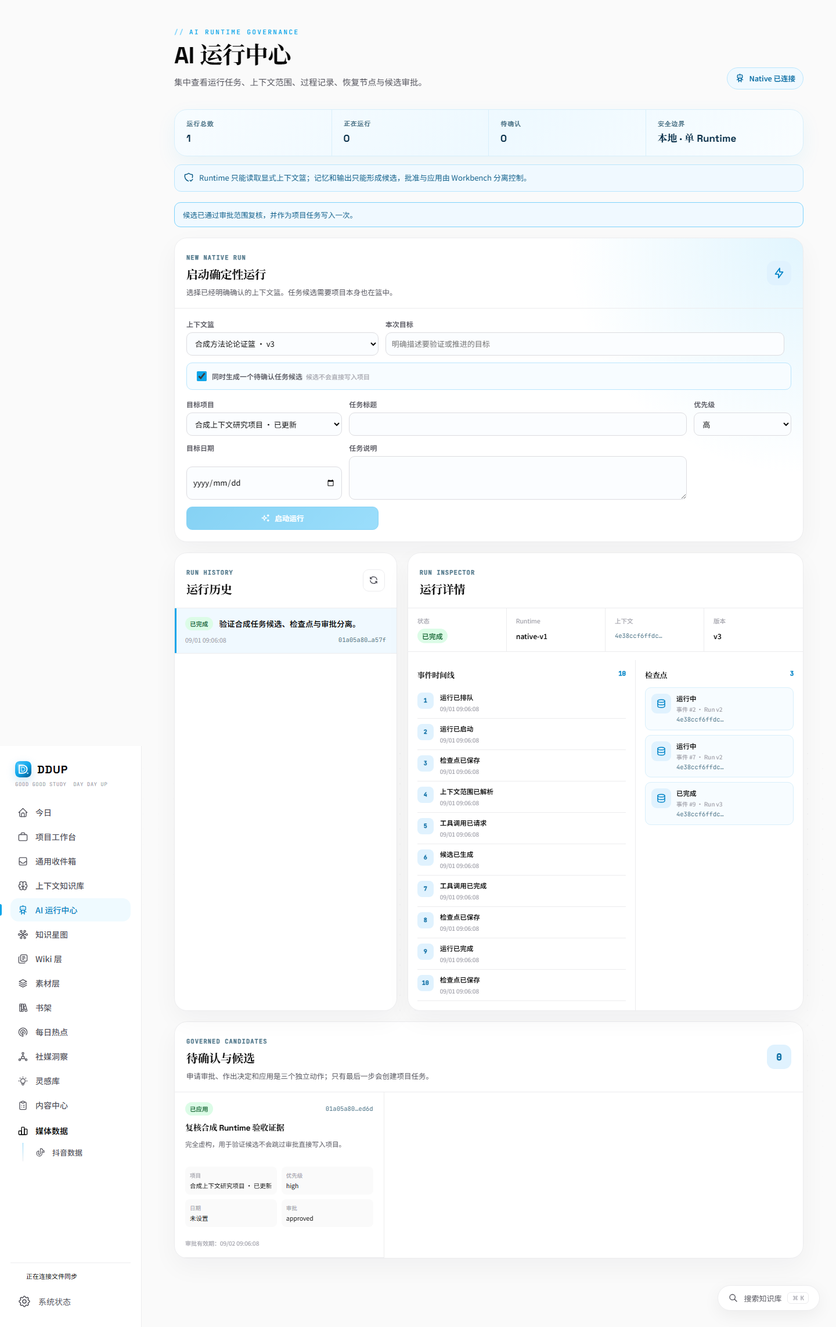
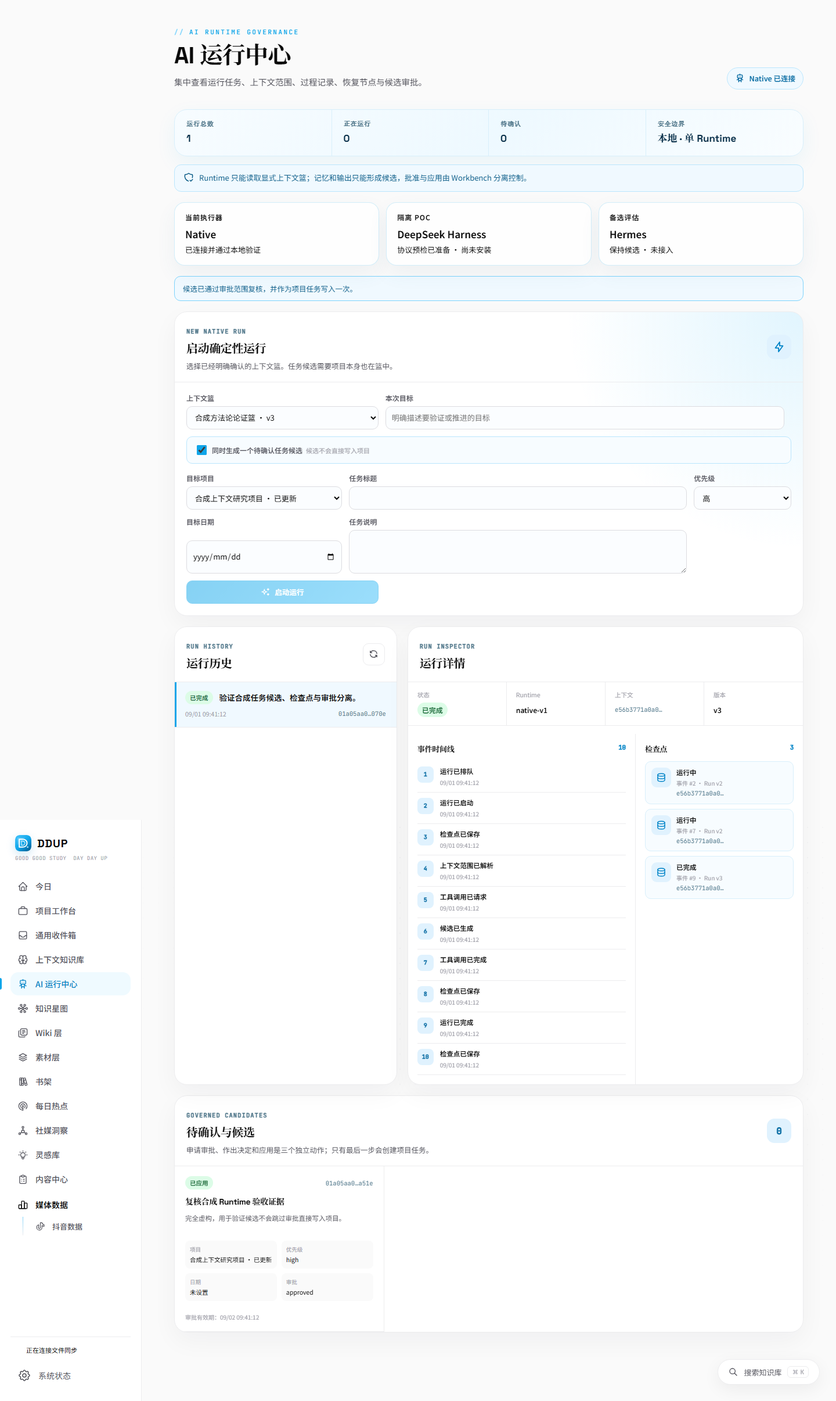
feat: prepare isolated harness protocol poc

diff --git a/person_dashboard-main/Workbench/src/styles.css b/person_dashboard-main/Workbench/src/styles.css
@@ -1166,6 +1166,13 @@
 .runtime-summary strong { overflow: hidden; color: #082f49; font: 700 17px/1.35 var(--font-display); text-overflow: ellipsis; white-space: nowrap; }
 .runtime-boundary { display: flex; align-items: flex-start; gap: 9px; margin: 0 0 18px; padding: 12px 15px; border: 1px solid #bae6fd; border-radius: 12px; background: #f0f9ff; color: #075985; font-size: 13px; line-height: 1.55; }
 .runtime-boundary svg { width: 18px; height: 18px; flex: 0 0 auto; }
+.runtime-readiness { display: grid; grid-template-columns: repeat(3, minmax(0, 1fr)); gap: 12px; margin: 0 0 18px; }
+.runtime-readiness article { min-width: 0; padding: 16px 18px; border: 1px solid rgba(31, 164, 226, .2); border-radius: 18px; background: rgba(255, 255, 255, .82); box-shadow: 0 14px 34px rgba(65, 113, 139, .07); }
+.runtime-readiness span,
+.runtime-readiness small { display: block; color: var(--muted); }
+.runtime-readiness span { margin-bottom: 8px; font-size: 12px; font-weight: 700; letter-spacing: .08em; text-transform: uppercase; }
+.runtime-readiness strong { display: block; margin-bottom: 5px; font-size: 17px; }
+.runtime-readiness small { font-size: 13px; line-height: 1.55; }
 .runtime-notice { margin: 0 0 18px; padding: 11px 14px; border: 1px solid #7dd3fc; border-radius: 11px; background: #f0f9ff; color: #075985; font-size: 12.5px; line-height: 1.55; }
 .runtime-launcher,
 .runtime-run-list,
@@ -1292,6 +1299,7 @@
 
 @media (max-width: 760px) {
   .runtime-summary { grid-template-columns: repeat(2, minmax(0, 1fr)); }
+  .runtime-readiness { grid-template-columns: 1fr; }
   .runtime-summary > div:nth-child(2) { border-right: 0; }
   .runtime-summary > div:nth-child(-n+2) { border-bottom: 1px solid #d8effb; }
   .runtime-launcher > header,

diff --git a/person_dashboard-main/Workbench/src/pages/RuntimePage.jsx b/person_dashboard-main/Workbench/src/pages/RuntimePage.jsx
@@ -225,6 +225,8 @@ export function RuntimePage() {
     [includedProjectIds, workspace.projects],
   );
   const nativeRuntime = workspace.runtimes.find((runtime) => runtime.runtime_key === "native-v1");
+  const harnessRuntime = workspace.runtimes.find((runtime) => runtime.runtime_key === "deepseek-harness-poc");
+  const hermesRuntime = workspace.runtimes.find((runtime) => runtime.runtime_key === "hermes-candidate");
   const pendingCount = workspace.candidates.filter((candidate) => ["pending", "approved"].includes(candidate.status)).length;
 
   const submitRun = async (event) => {
@@ -325,6 +327,11 @@ export function RuntimePage() {
       </section>
 
       <p className="runtime-boundary"><IconShieldCheck />Runtime 只能读取显式上下文篮；记忆和输出只能形成候选，批准与应用由 Workbench 分离控制。</p>
+      <section aria-label="运行时准备状态" className="runtime-readiness">
+        <article><span>当前执行器</span><strong>Native</strong><small>{nativeRuntime?.connected ? "已连接并通过本地验证" : "当前不可用"}</small></article>
+        <article><span>隔离 POC</span><strong>DeepSeek Harness</strong><small>{harnessRuntime?.readiness === "protocol_preflight_ready" ? "协议预检已准备 · 尚未安装" : "尚未连接"}</small></article>
+        <article><span>备选评估</span><strong>Hermes</strong><small>{hermesRuntime?.connected ? "连接状态可用" : "保持候选 · 未接入"}</small></article>
+      </section>
       {notice ? <p aria-live="polite" className="runtime-notice">{notice}</p> : null}
 
       {workspace.status === "error" ? (

diff --git a/product/Harness隔离POC实施授权_待确认.md b/product/Harness隔离POC实施授权_待确认.md
@@ -1,0 +1,91 @@
+# G6a：DeepSeek Harness 隔离 POC 实施授权（待确认）
+
+> 文档状态：待确认  
+> 生成日期：2026-09-01  
+> 确认门：G6a  
+> 当前事实：Workbench 已完成 Harness 协议预检代码与合成测试；官方运行时尚未下载、安装或连接
+
+## 0. 需要确认的决定
+
+| 编号 | 决定 | 推荐默认项 | 替代方案 | 不确认的影响 |
+|---|---|---|---|---|
+| G6a-1 | 是否进入官方运行时 POC | **Go，但仅限隔离、只读、synthetic-only POC** | Stop；继续使用 Native | Harness 保持“协议预检已准备、尚未安装” |
+| G6a-2 | 固定版本 | **`@deepseek-ai/dsh@0.1.1-rc.2` 与 `@deepseek-ai/dsh-sdk-client@0.1.1-rc.2`，禁止浮动标签** | 跟随 `next/latest` | 浮动版本无法形成可复现证据 |
+| G6a-3 | 安装边界 | **独立 `experiments/harness-poc/`，单独 lock，不进入 Workbench 生产依赖** | 加入 Workbench 根依赖 | 会扩大主应用供应链和构建影响 |
+| G6a-4 | 下载与磁盘上限 | **npm 下载/缓存与隔离安装合计上限 1 GiB，预计超限立即 Stop** | 不设上限 | 可能无界扩张大型插件闭包 |
+| G6a-5 | 生命周期脚本 | **首轮 `ignore-scripts`，先审计 tarball、依赖、许可证和脚本；未通过不执行脚本** | 正常安装 | 第三方脚本会在审查前获得本机执行机会 |
+| G6a-6 | 模型与凭据 | **首轮只做官方进程启动、握手、事件与退出测试；不配置真实 API key，不产生付费请求** | 直接接真实模型 | 会把协议验证与凭据/费用风险混在一起 |
+| G6a-7 | 数据范围 | **仅使用独立临时目录和明确 synthetic fixture；不读取 Workbench SQLite、Vault 或真实项目数据** | 直接接个人上下文 | POC 未通过前会扩大隐私与权限风险 |
+| G6a-8 | 能力状态 | **通过完整 G6a 验收前保持 `poc_not_connected`，不能创建正式 Run** | 安装后即显示可用 | 会把“装上了”误报为“安全可用” |
+
+建议确认口径：`G6a 全部按推荐项确认。`
+
+## 1. 为什么现在需要单独确认
+
+此前 G1–G5b 只批准了 Workbench 自身 Runtime、检索和审批能力。Harness 属于新的第三方执行面，完整 CLI 当前具有较大的插件依赖闭包，并包含文件、Shell、网络、MCP、子 Agent、Workflow 和动态 Cordis 工具等能力。即使 POC 只使用最小 Profile，下载和安装本身也会改变本机供应链状态，因此不能从“继续开发”推导为已授权安装。
+
+## 2. 2026-09-01 官方状态复核
+
+官方仍将 Harness 标记为 Developer Preview，并明确提示会有兼容性破坏。当前 npm `@deepseek-ai/dsh` 显示版本 `0.1.1-rc.2`；本地只读 `npm view` 结果显示主包本体解包大小约 117 KiB、MIT 许可证，但直接依赖包含约 60 个 Harness/Cordis 与工具包，不能用主包本体大小代表完整安装量。
+
+当前官方 SDK 协议事实：
+
+- 换行分隔 JSON-RPC 2.0，通过 stdio 驱动独立进程；
+- 握手稳定名称为 `deepseek-harness-sdk-runtime`，线协议版本为 `0.0.1`；
+- `session/prompt` 只确认消息进入队列，不直接返回最终回答；
+- 服务端通过 `session.event` 与 `session.status` 通知过程；
+- 当前没有协议版本协商、单会话关闭/取消方法，也没有服务端审批请求能力；
+- 因而 POC 不能把取消、审批、Resume 或 ToolCall 误标为已具备。
+
+来源：
+
+- [DeepSeek Harness 官方 Developer Preview](https://deepseek.com/harness/en/)
+- [官方 SDK JSON-RPC Server 说明](https://github.com/deepseek-ai/deepseek-harness/blob/master/packages/sdk/server/README.md)
+- [官方 SDK Protocol 说明](https://github.com/deepseek-ai/deepseek-harness/blob/master/packages/sdk/protocol/README.md)
+- [npm：@deepseek-ai/dsh](https://www.npmjs.com/package/@deepseek-ai/dsh)
+
+## 3. 已完成的零依赖预检
+
+无需安装第三方包的准备工作已经完成：
+
+1. Registry 保持 Harness `connected=false`，但公开 `stdio_jsonrpc`、只读 POC Profile 和协议预检状态；
+2. 握手只接受官方服务名和线协议 `0.0.1`，版本漂移时 fail closed；
+3. 单帧限制 64 KiB，只接受 `session.event/session.status` 通知；
+4. 会话 ID、原始消息、工具参数和路径不进入 Workbench 事件，只保存 SHA-256 摘要、事件类型和帧大小；
+5. JSON 破损、超限帧、服务端请求、未知状态和子 Agent 通知均以 `RUNTIME_PROTOCOL_ERROR` 拒绝；
+6. UI 显示“协议预检已准备 · 尚未安装”，Native 仍是唯一可运行主 Runtime；
+7. 专项测试 16/16 通过，其中 Harness 预检 4/4。
+
+这只是 Adapter 前置边界，不是实际 Harness 集成证据。
+
+## 4. 确认后的实施步骤
+
+1. 建立独立实验目录、忽略规则、单独 manifest/lock 和 1 GiB 预算检查；
+2. 只下载固定 tarball 与依赖元数据，记录 integrity、许可证、脚本和依赖清单；
+3. 先以禁用生命周期脚本方式安装，执行生产依赖安全审计；
+4. 使用无敏感信息的临时 home/workspace 启动官方 SDK Profile；
+5. 验证 stdout 纯 JSON-RPC、stderr 诊断分离、握手、通知、EOF/进程退出和超限帧；
+6. 增加崩溃、乱序、重复、未知事件、越界路径、环境变量泄漏和进程残留测试；
+7. 若协议 POC 通过，再单独形成“模型与只读工具闭环”授权，不自动接入真实模型、真实资料或付费服务；
+8. 只有 G6a 最终报告给出 Go，才允许把 Harness 从 `poc_not_connected` 改为受限 POC 可运行状态。
+
+## 5. Stop 条件
+
+出现任一情况即停止，不修改 Workbench 主 Runtime：
+
+- 固定版本或 integrity 无法复现；
+- 下载/安装预计超过 1 GiB；
+- 必须执行未审查脚本或修改 Harness 核心才能完成握手；
+- stdout 混入日志导致协议帧不可可靠分离；
+- Windows 环境无法阻止读取实验目录之外的文件或无法清理子进程；
+- 事件无法在不保存原始敏感正文的前提下归一化；
+- 当前缺失的取消/审批能力导致进程级补偿仍无法满足安全终态；
+- 引入的维护成本明显高于 Native 与后续自研 Adapter。
+
+## 6. 确认后才会发生的外部变化
+
+- 从 npm 下载固定的第三方预发布包；
+- 在仓库忽略的隔离目录生成依赖和缓存；
+- 启动仅访问 synthetic 临时目录的本地子进程；
+- 不会写入 Workbench 业务数据库，不会访问真实知识库，不会配置真实模型凭据，不会监听局域网或公网。
+

diff --git a/README.md b/README.md
@@ -2,7 +2,7 @@
 
 DDUP 是一套本地优先、来源可追溯、权限感知的个人 AI 工作台。系统以“项目”为执行骨架，以“个人上下文知识库”为统一认知层，面向科研、AI 应用探索、科技前沿跟踪、学习提升、计划复盘和个人第二大脑等长期场景。
 
-> 当前阶段：G1–G5b 已确认。核心项目闭环、受控 Markdown、权限优先全文检索、显式上下文篮、Native 确定性 Run 生命周期、Task Candidate Tool/Approval 首版，以及正式运行中心、SSE、Checkpoint 与安全重试谱系已实现；受保护混合检索仍为默认关闭的实验路径。sidecar 历史超时已通过临时候选向量缓存与有界背压完成短样本修复，但扩展边界 Top-1 仍仅 70%。BGE-M3 仍是仓库外、synthetic-only、CPU 实验 sidecar，并因质量 Stop 保持默认关闭。生成式回答、通用 Tool/Approval、Runtime 私有 resume、DeepSeek Harness 与 Hermes 尚未接入，不应视为现有生产能力。
+> 当前阶段：G1–G5b 已确认。核心项目闭环、受控 Markdown、权限优先全文检索、显式上下文篮、Native 确定性 Run 生命周期、Task Candidate Tool/Approval 首版，以及正式运行中心、SSE、Checkpoint 与安全重试谱系已实现；受保护混合检索仍为默认关闭的实验路径。DeepSeek Harness 已完成零依赖协议预检，但官方运行时下载/安装仍等待 G6a；Hermes 仍为未连接候选。生成式回答、通用 Tool/Approval 与 Runtime 私有 resume 尚未接入，不应视为现有生产能力。
 
 ## 一、产品目标
 
@@ -80,7 +80,7 @@ flowchart TB
 | 引用问答 | 固定来源版本、逐条 Citation、无依据拒答 | 设计中；生成式回答继续关闭，需后续安全门 |
 | 媒体数据 | 可扩展渠道父级；抖音数据作为首个子项和合成演示面板 | 导航与抖音子页已实现 |
 | 科研 / AI Lab / 前沿 / 学习 | 产品设计、原型页面与项目模板路线 | 原型/设计方案 |
-| DeepSeek Harness | 只读隔离 Runtime POC 候选；Registry 中可见但不可运行 | `poc_not_connected` |
+| DeepSeek Harness | stdio JSON-RPC 握手、帧门和脱敏摘要预检已实现；官方运行时尚未安装，Registry 中不可运行 | `protocol_preflight_ready / poc_not_connected` |
 | Hermes | 可选 Runtime / 消息网关候选；Registry 中可见但不可运行 | `candidate_not_connected` |
 | 飞书 / 移动连接器 | 高频捕获、任务、讨论、提醒和复盘 | 后续计划 |
 
@@ -134,7 +134,7 @@ npm run build
 npm run privacy:scan
 ```
 
-当前验证快照：Node 24.19；2026-09-01 完整回归与生产构建 226/226 通过，隐私扫描通过。Native Runtime 生命周期专项 7/7、Task Candidate/Approval 专项 3/3、运行中心静态契约专项 2/2，覆盖正常、失败、策略拒绝、跨空间、重复请求、取消、审批过期、防替换、真实重启收敛、检查点、SSE 断点续传和安全重试谱系；运行中心桌面端/390px Playwright Chromium E2E 1/1 通过并保存合成截图。受保护混合检索另有仓库外 BGE-M3 回环冒烟、独立合成盲测、边界质量失败和 sidecar D1–D3 短样本修复证据。构建存在主包大于 500 kB 的非阻塞提示。
+当前验证快照：Node 24.19；2026-09-01 完整回归与生产构建 230/230 通过，隐私扫描通过。Native Runtime 生命周期专项 7/7、Task Candidate/Approval 专项 3/3、运行中心静态契约专项 2/2、Harness 协议预检专项 4/4，覆盖正常、失败、策略拒绝、跨空间、重复请求、取消、审批过期、防替换、真实重启收敛、检查点、SSE 断点续传、安全重试谱系，以及 Harness 握手、帧上限、脱敏摘要与未知事件失败关闭；运行中心桌面端/390px Playwright Chromium E2E 1/1 通过并保存合成截图。受保护混合检索另有仓库外 BGE-M3 回环冒烟、独立合成盲测、边界质量失败和 sidecar D1–D3 短样本修复证据。构建存在主包大于 500 kB 的非阻塞提示。
 
 ## 六、仓库结构
 
@@ -175,6 +175,7 @@ DDUP/
 ### Runtime 与专项评估
 
 - [DeepSeek Harness 与 Hermes 融合方案](product/Agent运行时融合方案_DeepSeek_Harness与Hermes.md)
+- [DeepSeek Harness 隔离 POC 实施授权（G6a 待确认）](product/Harness隔离POC实施授权_待确认.md)
 - [DeepSeek Harness 项目适用性评估](research/DeepSeek_Harness_项目适用性评估.md)
 - [Hermes Agent 项目适用性评估](research/Hermes_Agent_项目适用性评估.md)
 - [个人 AI 助手与知识库调研报告](research/个人AI助手与知识库调研报告.md)
@@ -200,7 +201,7 @@ DDUP/
 1. 受保护 Hybrid SearchProvider 已按 G5b 落地但默认关闭；正式检索继续以 FTS 为稳定基线；
 2. sidecar 重复 passage 编码与无界等待已完成短样本修复；下一步聚焦长文相邻主题错排、英文长尾漏召回和长时稳定，不下载 reranker；
 3. 显式 ContextPackage 已作为独立范围层落地；下一步只能在质量、提示注入、泄漏、回退、背压和资源门全部通过后，才将其连接生成式引用问答；
-4. Native Runtime 生命周期、Task Candidate Tool/Approval、运行历史/待确认正式 UI、SSE、Checkpoint 与安全重试已落地；下一步进入 Harness 只读隔离 POC 的 G6a 证据准备，Harness/Hermes 仍保持未连接 POC/候选。
+4. Native Runtime 生命周期、Task Candidate Tool/Approval、运行中心、SSE、Checkpoint 与安全重试已落地；Harness 零依赖协议预检已完成，下一步需通过 G6a 后才可下载固定官方运行时；Hermes 保持未连接候选。
 
 ## 九、隐私与发布边界
 

diff --git a/product/个人上下文智能工作台_实施任务计划.md b/product/个人上下文智能工作台_实施任务计划.md
@@ -322,11 +322,11 @@
 | 9 | S2-03 权限安全与审计设计 | 已确认 | G3 于 2026-08-24 通过，C1–C14 采用推荐方案 |
 | 10 | S2-07 SQLite 可靠性 Spike | 部分完成 | Windows/Node 24.19 全规模通过；Linux/CI 在工程骨架阶段补齐 |
 | 11 | S2-08 Fastify/Playwright 依赖审查 | 已完成 | 精确版本已安装；Chromium shell 已用于本地 E2E，不进入产品包 |
-| 12 | A1/A12 Node 与 CI 基线 | 已完成 | Node 24 预检；2026-09-01 Windows 完整测试 226/226；Windows/Linux CI 文件已建立，远端执行待触发 |
+| 12 | A1/A12 Node 与 CI 基线 | 已完成 | Node 24 预检；2026-09-01 Windows 完整测试 230/230；Windows/Linux CI 文件已建立，远端执行待触发 |
 | 13 | S2-04 API 与事件契约 | 已完成 | 正式设计文档、统一 envelope/错误/UUIDv7 和基础 OpenAPI 已建立 |
 | 14 | S2-05 Agent Runtime/Tool 契约 | 已完成 | 契约设计完成；Native/Harness/Hermes 实现状态如实区分 |
 | 15 | G3 后本地服务安全骨架 | 已完成 | Fastify 回环服务、Host/Origin/启动凭证/会话/CSRF；基础测试 6/6 |
-| 16 | 最新完整回归 | 已完成 | 2026-09-01 `npm test` 完整 226/226、生产构建与隐私扫描通过；Native Runtime 生命周期专项 7/7、Task Candidate/Approval 专项 3/3、运行中心静态契约 2/2；运行中心桌面端/390px E2E 1/1 通过并保存合成截图 |
+| 16 | 最新完整回归 | 已完成 | 2026-09-01 `npm test` 完整 230/230、生产构建与隐私扫描通过；Native Runtime 生命周期专项 7/7、Task Candidate/Approval 专项 3/3、运行中心静态契约 2/2、Harness 协议预检 4/4；运行中心桌面端/390px E2E 1/1 通过并保存合成截图 |
 | 17 | 旧版 XLSX 依赖处置 | 待确认 | `旧版XLSX导入依赖处置_待确认.md`；未确认前不下载或替换依赖 |
 | 18 | S3-01 Project 正式页面与天蓝设计系统 | 已完成 | `/projects` 使用真实 API；PC/390px E2E 1/1；已保存合成截图 |
 | 19 | S3-02 Project 持久化 | 已完成 | migration 001、CRUD/状态/软删恢复、空间过滤、版本/幂等、Audit/Outbox；专项 10/10 |
@@ -359,5 +359,6 @@
 | 46 | S5-01 Native 确定性 Runtime 生命周期 | 已完成首版 | migration 008；`native-v1` 完成 queued/running/succeeded/failed/cancelled、JSON 事件回放、取消、幂等、AI policy、跨空间和重启恢复测试；该节点完成时不调用 Tool，随后由 S5-02 增加唯一 L1 Candidate Tool；Harness/Hermes 仍未连接 |
 | 47 | S5-02 Tool Gateway 与 L2 审批桥 | 已完成 Task Candidate 首版 | migration 009；固定 `candidate.task.create.v1` L1 与 `candidate.apply.v1` L2；候选/审批/应用分离，scope digest、防替换、过期、拒绝、幂等、越权审计与重启恢复已验证；正式运行中心已在 S5-03 落地，其他候选类型待后续 |
 | 48 | S5-03 运行历史、取消和恢复 | 已完成首版 | migration 010；正式 AI 运行中心；JSON/SSE `Last-Event-ID` 回放；持久化 Checkpoint；遗留 running 启动时安全收敛；仅 retryable/零 ToolCall/范围版本有效时创建带谱系新 Run；Task Candidate 申请、批准/拒绝与应用 UI；桌面/390px E2E 通过 |
+| 49 | S5-04/G6a Harness 协议预检 | 已完成，等待 G6a | 零新增依赖；固定官方 stdio JSON-RPC `0.0.1` 身份；64 KiB 帧门、脱敏摘要、未知/超限/子 Agent fail closed；Registry/UI 明示“预检已准备、尚未安装”；专项 16/16；安装授权见 `Harness隔离POC实施授权_待确认.md` |
 
 后续每完成一项即更新本节，不另建彼此冲突的计划表。

diff --git a/product/系统架构与技术选型.md b/product/系统架构与技术选型.md
@@ -208,7 +208,7 @@ Fastify 是新的生产依赖。G2 已授权采用，落地前审查建议精确
 - migration 008 建立 `agent_runs/run_events`；Runtime Registry 与业务存储通过适配器边界解耦。
 - `native-v1` 是进程内确定性生命周期执行器，只接收 ContextPackage digest 与纳入/排除计数，不调用模型或外部网络，也不产生 Answer；唯一 Runtime 可调用 Tool 是 S5-02 的 L1 Task Candidate。
 - 事件以持久化 `run_id + seq` 为真源，并提供有界 JSON 与可恢复 SSE 投影；migration 010 建立 Workbench Checkpoint 与 `retry_of_run_id`。进程中断遗留 Run 安全收敛为 retryable/不可重试失败，只有零 ToolCall 且范围版本仍有效的 Run 才能创建带谱系的新重试。
-- DeepSeek Harness/Hermes 只作为 `connected=false` 的 POC/candidate 描述符存在，不参与 Run 创建或健康伪探测。
+- DeepSeek Harness/Hermes 仍为 `connected=false` 的 POC/candidate，不参与 Run 创建或健康伪探测；Harness 已补齐零依赖 stdio JSON-RPC 握手、64 KiB 帧门与脱敏摘要预检，官方运行时下载/安装仍等待 G6a。
 - migration 009 建立 ToolCall、Candidate 与 Approval。Native 只允许 `candidate.task.create.v1` L1；它将用户结构化输入保存为待确认候选，不创建 Task。L2 应用经本地拥有者 Approval、scope digest、防替换、过期和版本校验后，在同一事务内创建 `ai_candidate` Task。
 - 失败/越权 ToolCall 只持久化参数摘要和安全错误码；正式 AI 运行中心已覆盖真实 Run、事件、Checkpoint 与 Task Candidate 审批/应用，L3/L4、其他候选类型和 Runtime 私有 resume 仍未实现。
 
@@ -384,6 +384,6 @@ Workbench/
 
 - Node 24.19 生产构建通过，7,415 个模块；
 - `node:sqlite` Windows 可靠性 Spike 通过 9 类检查，完整规模为 10 万对象/100 万关系；
-- 2026-09-01 Node 24.19 完整测试与生产构建 226/226 通过，隐私扫描通过；Native Runtime 生命周期专项 7/7、Task Candidate/Approval 专项 3/3、运行中心静态契约 2/2；运行中心桌面端/390px Playwright Chromium 1/1 通过并保存合成截图；
+- 2026-09-01 Node 24.19 完整测试与生产构建 230/230 通过，隐私扫描通过；Native Runtime 生命周期专项 7/7、Task Candidate/Approval 专项 3/3、运行中心静态契约 2/2、Harness 协议预检 4/4；运行中心桌面端/390px Playwright Chromium 1/1 通过并保存合成截图；
 - 隐私扫描通过；
 - 现有服务已验证 REST/SSE、本地路径防护、受控写入、领域持久化、权限优先全文检索，以及默认关闭的受保护混合检索实验切片；`native-v1` 生命周期、Task Candidate/Approval、正式运行中心、Runtime SSE、Checkpoint 与受限重试首版已实现，引用回答、重排、其他 Tool/Candidate 与 Runtime 私有 resume 仍未实现。

diff --git a/product/工程现状与基线报告.md b/product/工程现状与基线报告.md
@@ -214,7 +214,7 @@ G2/G3 已于 2026-08-24 按推荐项确认。此处记录当时基线；截至 2
 - 只允许 `127.0.0.1` 的 Fastify 服务入口，`trustProxy=false`；
 - Host allowlist、严格同源、一次性启动凭证、HttpOnly 会话、CSRF 与会话撤销；
 - `/api/health`、会话和 `/api/v1/system/capabilities` 最小路由；
-- Harness 状态保持 `poc_not_connected`，Hermes 保持 `candidate_not_connected`，没有虚构集成；
+- Harness 已补齐零依赖 stdio JSON-RPC 协议预检，但状态仍保持 `poc_not_connected`；Hermes 保持 `candidate_not_connected`，没有虚构集成；
 - Windows 目录逃逸测试改用 junction 后，原 3 个环境跳过项已经实际执行通过。
 
 ### 8.2 最新验证快照
@@ -222,7 +222,7 @@ G2/G3 已于 2026-08-24 按推荐项确认。此处记录当时基线；截至 2
 | 检查 | 结果 | 说明 |
 |---|---|---|
 | 基础服务契约 | 6/6 通过 | 含 UUIDv7、Host、Origin、一次性凭证、CSRF、能力真实性、OpenAPI |
-| 完整测试 | 226/226 通过 | Node 24.19.0，0 失败、0 跳过；含 Native Runtime 生命周期 7/7、Task Candidate/Approval 3/3、运行中心静态契约 2/2 |
+| 完整测试 | 230/230 通过 | Node 24.19.0，0 失败、0 跳过；含 Native Runtime 生命周期 7/7、Task Candidate/Approval 3/3、运行中心静态契约 2/2、Harness 协议预检 4/4 |
 | 生产构建 | 通过 | Vite 6.4.3；7,416 个模块，仍有既有大 chunk 警告 |
 | 隐私扫描 | 通过 | 仅使用虚构/测试数据 |
 | SQLite quick spike | 9 类全部通过 | 完整规模 Windows 证据另见 Spike 报告 |
@@ -232,7 +232,7 @@ G2/G3 已于 2026-08-24 按推荐项确认。此处记录当时基线；截至 2
 ### 8.3 当前真实能力边界
 
 - 服务骨架、安全入口、Project/Milestone/Task、人工 Discussion/Decision、文本/链接 Capture、DailyPlan/DailyReview、ContextPackage、`native-v1` Run/Event/Checkpoint/重试谱系与 Task Candidate/Approval 已落入正式 SQLite Repository；正式运行中心已实现，通用 Policy 和审计查询 UI 尚未实现；
-- OpenAPI 1.10.0 已覆盖当前服务路由，不等于其余设计 API 已实现；
+- OpenAPI 1.11.0 已覆盖当前服务路由和 Harness 预检元数据，不等于外部 Runtime 已安装或其余设计 API 已实现；
 - Playwright Chromium headless shell 已下载并完成本地 PC/390px E2E；远端 CI 证据仍待运行；
 - 旧版 XLSX 读取仍使用有已知告警的版本，不允许据此发布或新增上传入口；
 - Harness/Hermes 仍只是候选，不是生产 Runtime。

diff --git a/product/个人上下文智能工作台_UI原型与功能Spec.md b/product/个人上下文智能工作台_UI原型与功能Spec.md
@@ -544,7 +544,7 @@ stateDiagram-v2
 | Runtime | 原型状态 | 用户可见定位 | 操作 |
 |---|---|---|---|
 | Native Runtime | 生命周期与 Task Candidate 可用 | 确定性本地 Run；无模型回答；仅一条 L1 Tool | 查看能力 |
-| DeepSeek Harness | 隔离 POC | 研究执行器 | 查看 POC 边界 |
+| DeepSeek Harness | 协议预检已准备、官方运行时尚未安装 | 研究执行器候选 | 查看 POC 边界，不提供启动 |
 | Hermes Agent | 候选，未连接 | 移动网关/备选执行器 | 查看评估，不提供启用 |
 
 #### 交互规则
@@ -858,7 +858,7 @@ erDiagram
 | Project objects | `/api/projects/:id/documents|knowledge|discussions|decisions|tasks` |
 | Capture | `POST /api/captures`、`POST /api/captures/:id/classify` |
 | Context | 已实现受控来源、`POST /api/v1/context/search` 和 ContextPackage 创建/列表/详情/加入/移除/归档；目标 `POST /api/v1/context/answers` 尚未实现 |
-| Agent Runtime | 已实现 `native-v1` 确定性生命周期、JSON/SSE 事件回放、取消、Checkpoint、异常重启收敛、受限安全重试、正式运行中心，以及 Task Candidate L1 与 L2 Approval/apply；其他 Tool、Runtime 私有 resume/steer 与模型回答尚未实现 |
+| Agent Runtime | 已实现 `native-v1` 确定性生命周期、JSON/SSE 事件回放、取消、Checkpoint、异常重启收敛、受限安全重试、正式运行中心，以及 Task Candidate L1 与 L2 Approval/apply；Harness 零依赖协议预检已实现但未安装、不可运行；其他 Tool、Runtime 私有 resume/steer 与模型回答尚未实现 |
 | Assistant | `POST /api/assistant/runs`、`GET /api/assistant/runs/:id/events` |
 | Research | `/api/research/claims`、`/api/research/experiments`、`/api/research/literature` |
 | AI Lab | `/api/ai-lab/signals`、`opportunities`、`evaluations`、`gates` |
@@ -891,7 +891,7 @@ erDiagram
 | UI-10 | 移动端 | 900 px 以下隐藏侧栏并显示底栏；主内容不横向溢出 |
 | UI-11 | 视觉 | 主色为天蓝色，保留渐变，正文对比清晰 |
 | UI-12 | 构建 | 生产构建完成，仅允许非阻塞的包体积提示 |
-| UI-13 | AI 运行中心 | 显示 Harness 为隔离 POC、Hermes 为未连接候选，并明确 Workbench 真源和统一 Adapter 边界 |
+| UI-13 | AI 运行中心 | 显示 Harness“协议预检已准备、尚未安装”、Hermes“候选、未接入”，并明确 Native 是当前唯一执行器 |
 
 ### 13.2 MVP 业务验收
 

diff --git a/product/API与事件契约.md b/product/API与事件契约.md
@@ -295,11 +295,11 @@ OpenAPI 1.7.0 已实现以下回环 API：
 
 ### 9.1 Run
 
-> 2026-09-01 当前落地边界：`native-v1` 已实现确定性本地生命周期、持久化事件、幂等开始、乐观锁取消、错误终态、JSON/SSE 回放、Checkpoint、异常重启安全收敛和受限重试谱系；它不调用模型、不生成回答。唯一 Runtime 可调用工具 `candidate.task.create.v1` 只创建 L1 Task Candidate；L2 `candidate.apply.v1` 只能由本地拥有者经独立 Approval resolve 后执行。正式 AI 运行中心已显示真实 Run、事件、Checkpoint 和 Task Candidate 审批/应用；steer、Runtime 私有 resume 和其他候选类型仍未实现。DeepSeek Harness/Hermes 仅在 Registry 中如实显示为未连接候选。
+> 2026-09-01 当前落地边界：`native-v1` 已实现确定性本地生命周期、持久化事件、幂等开始、乐观锁取消、错误终态、JSON/SSE 回放、Checkpoint、异常重启安全收敛和受限重试谱系；它不调用模型、不生成回答。唯一 Runtime 可调用工具 `candidate.task.create.v1` 只创建 L1 Task Candidate；L2 `candidate.apply.v1` 只能由本地拥有者经独立 Approval resolve 后执行。正式 AI 运行中心已显示真实 Run、事件、Checkpoint 和 Task Candidate 审批/应用；steer、Runtime 私有 resume 和其他候选类型仍未实现。DeepSeek Harness 已公开零依赖协议预检元数据但保持 `connected=false`，Hermes 仍为未连接候选。
 
 | Method | Path | 说明 |
 |---|---|---|
-| GET | `/api/v1/runtimes` | 已注册 Runtime 能力和 `available/poc/candidate/disabled` |
+| GET | `/api/v1/runtimes` | 已注册 Runtime 能力和 `available/poc/candidate/disabled`；Harness 只返回已评审协议预检元数据，不代表安装或健康 |
 | GET | `/api/v1/runtimes/{runtimeKey}/health` | 仅检查已连接适配器；未连接候选返回 `RUNTIME_UNAVAILABLE` |
 | GET | `/api/v1/runs` | 按授权空间/状态列出安全 Run 摘要（已实现） |
 | POST | `/api/v1/runs` | 创建 Run；Profile 明确绑定一个主 Runtime |

diff --git a/product/AgentRuntime与工具契约.md b/product/AgentRuntime与工具契约.md
@@ -343,6 +343,8 @@ Runtime 不能通过拆分子 Run 绕过总预算、工具动作等级或 Space 
 - 插件白名单、网络默认关闭、协议录制回归；Developer Preview 变更触发兼容测试。
 - 只有 G6a Go 且权限/审计/恢复证据通过后才能改变状态。
 
+2026-09-01 已完成零依赖协议预检：Registry 仍为 `connected=false/poc_not_connected`，但声明已评审的 `stdio_jsonrpc` 边界与 `harness-readonly-research-poc-v1` Profile。预检只接受官方服务名 `deepseek-harness-sdk-runtime` 和线协议 `0.0.1`，单帧上限 64 KiB；`session.event/session.status` 只转为会话摘要、事件类型、帧大小和 SHA-256 digest，不保存原始消息、路径或工具参数。官方当前没有协议协商、单会话 cancel/close 和服务端审批请求，因此 `cancellation/approvals/resume/tool_calls` 均保持 false。官方包下载、安装、进程握手和真实 Run 仍等待 G6a，详见 `Harness隔离POC实施授权_待确认.md`。
+
 ### 11.3 Hermes
 
 - 状态：`candidate`，不作为 MVP 依赖。
